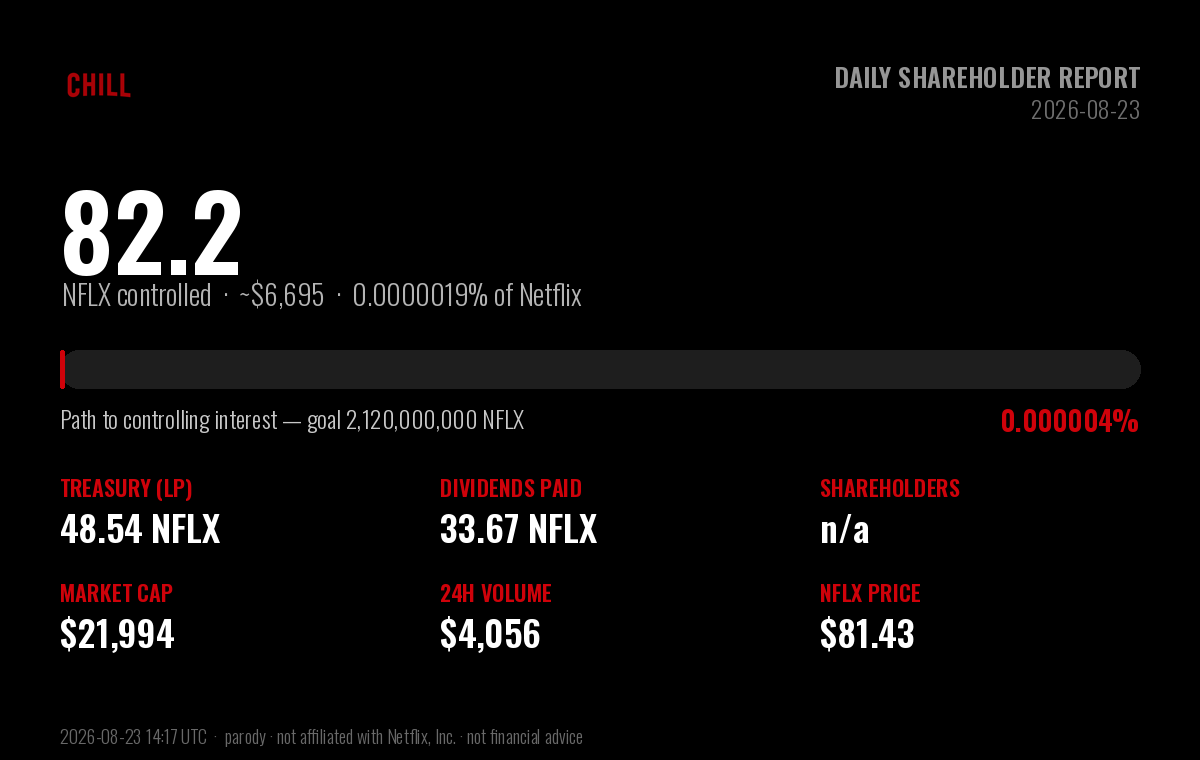
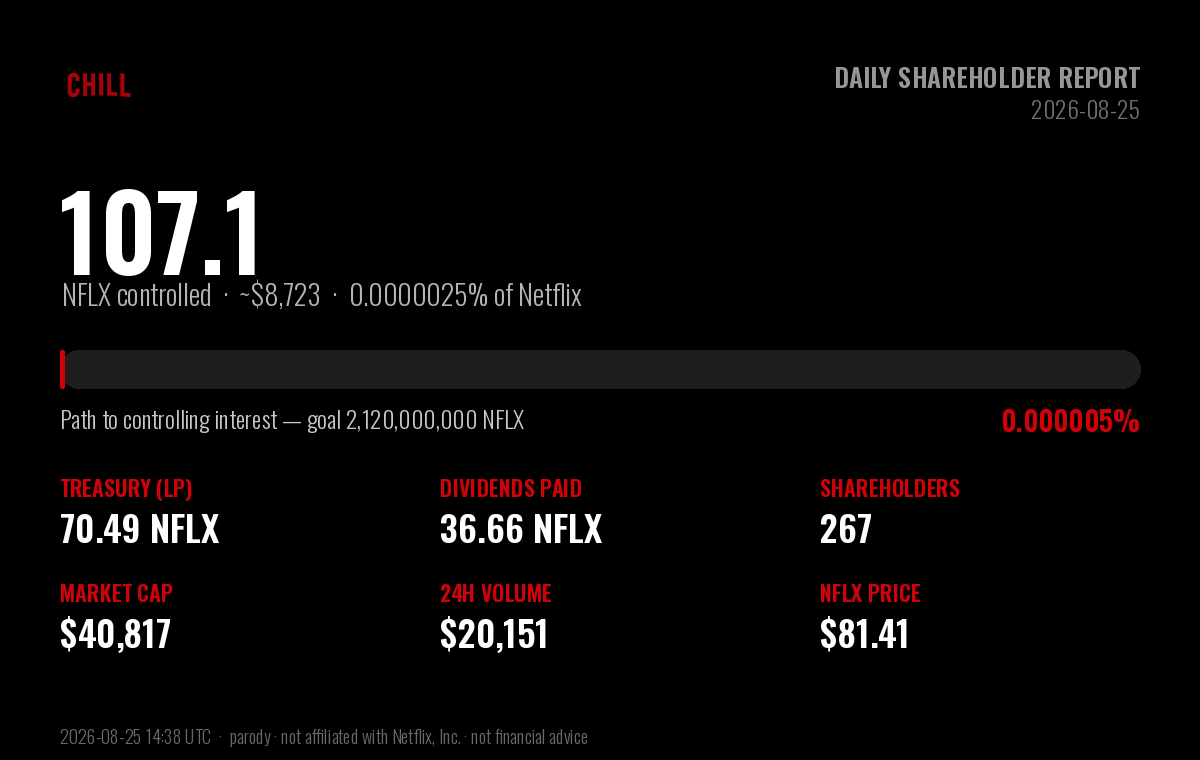
chore: daily $CHILL shareholder report (2026-08-25)

diff --git a/daily-holder-report/README.md b/daily-holder-report/README.md
@@ -1,6 +1,6 @@
 # $CHILL — Daily Shareholder Report
 
-### Netflix and Chill · Report to Shareholders · 2026-08-23
+### Netflix and Chill · Report to Shareholders · 2026-08-25
 
 > **Corporate objective:** acquire a controlling interest in Netflix (NFLX).
 > Netflix has **4,220,000,000** shares outstanding; a majority
@@ -13,53 +13,53 @@
 
 | Metric | Value |
 |---|---|
-| **NFLX under $CHILL control** | **82.21 NFLX** (~$6,695) |
-| Stake in Netflix | 0.000001948% of shares outstanding |
-| Progress to controlling interest | 0.0000039% of 2,120,000,000 |
-| Shares remaining to majority | 2,119,999,918 NFLX |
+| **NFLX under $CHILL control** | **107.15 NFLX** (~$8,723) |
+| Stake in Netflix | 0.000002539% of shares outstanding |
+| Progress to controlling interest | 0.0000051% of 2,120,000,000 |
+| Shares remaining to majority | 2,119,999,893 NFLX |
 
 ## Balance sheet — NFLX holdings
 
 | Holding | NFLX | USD |
 |---|---|---|
-| Treasury (protocol-owned liquidity) | 48.54 | $3,952 |
-| Dividends distributed to shareholders | 33.67 | $2,742 |
-| **Total NFLX controlled** | **82.21** | **$6,695** |
+| Treasury (protocol-owned liquidity) | 70.49 | $5,739 |
+| Dividends distributed to shareholders | 36.66 | $2,984 |
+| **Total NFLX controlled** | **107.15** | **$8,723** |
 
 ## Last 24 hours
 
 | Metric | Value |
 |---|---|
-| Trading volume | 49.81 NFLX (~$4,056) |
-| Net NFLX accumulated | 18.53 NFLX |
-| Dividends generated | 0.4981 NFLX |
-| Transactions | 65 (41 buys / 24 sells) |
-| $CHILL price change | +103.1% |
+| Trading volume | 247.51 NFLX (~$20,151) |
+| Net NFLX accumulated | 20.59 NFLX |
+| Dividends generated | 2.4751 NFLX |
+| Transactions | 216 (136 buys / 80 sells) |
+| $CHILL price change | +103.7% |
 
 ## Shareholder & market data
 
 | Metric | Value |
 |---|---|
-| Shareholders of record | n/a |
-| Lifetime unique participants | 944 |
+| Shareholders of record | 267 |
+| Lifetime unique participants | 1014 |
 | Shares outstanding ($CHILL) | 1,000,000,000 |
-| Market capitalization | $21,994 |
-| $CHILL price | $0.00002199 |
-| NFLX price | $81.43 |
-| Lifetime volume | 3,367.22 NFLX (~$274,202) |
-| Lifetime transactions | 4,561 (2,595 buys / 1,966 sells) |
-| Days since IPO (launch) | 34 |
+| Market capitalization | $40,817 |
+| $CHILL price | $0.00004082 |
+| NFLX price | $81.41 |
+| Lifetime volume | 3,665.61 NFLX (~$298,430) |
+| Lifetime transactions | 4,809 (2,751 buys / 2,058 sells) |
+| Days since IPO (launch) | 36 |
 
 ## Per-share metrics
 
 | Metric | Value |
 |---|---|
-| NFLX backing per 1M $CHILL | 0.082209 NFLX |
-| Dividends per 1M $CHILL | 0.033672 NFLX |
+| NFLX backing per 1M $CHILL | 0.107149 NFLX |
+| Dividends per 1M $CHILL | 0.036656 NFLX |
 
 ---
 
-*Report generated 2026-08-23 14:17 UTC · block 44,069,318 · data via the Sentry-Robinhood
+*Report generated 2026-08-25 14:38 UTC · block 45,806,254 · data via the Sentry-Robinhood
 subgraph and Robinhood Chain explorer.*
 
 **Disclaimer:** $CHILL is an independent, community-driven **parody** token. It is
